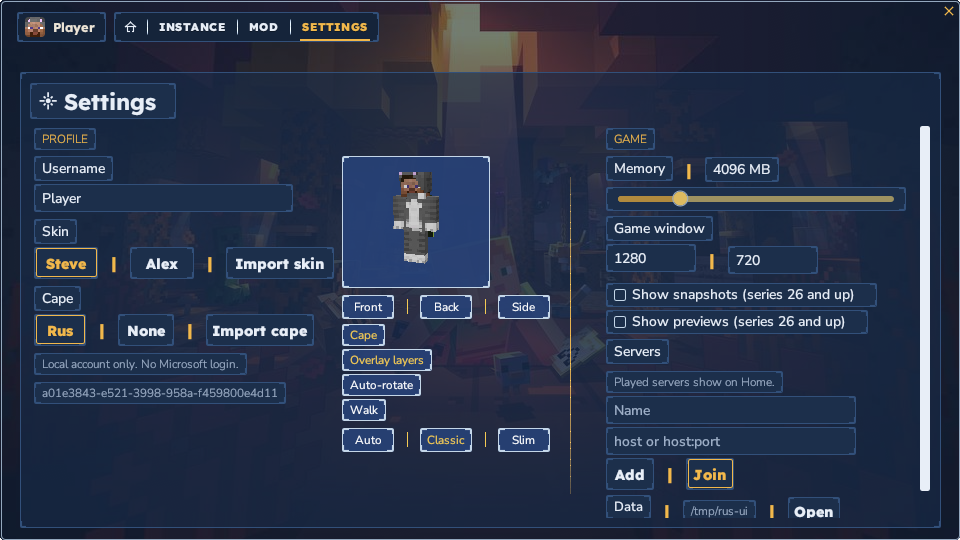
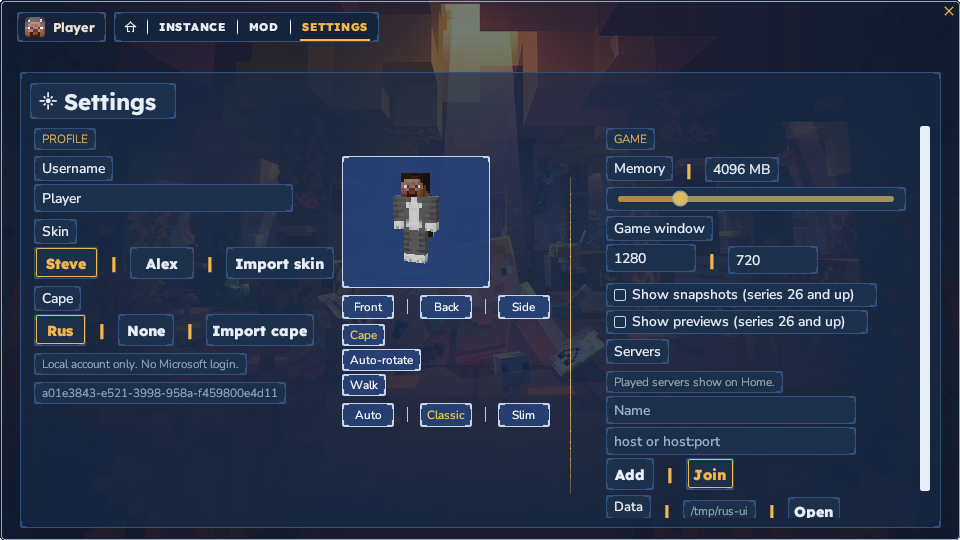
Release 1.26.3.01 without a PowerShell window or skin overlay.
The shortcut is written by wscript, and helper consoles stay hidden. Overlay layers are gone from the skin and from Settings. The gate window drops the leftover caption bar.

Changed region(s): [[0.3438, 0.6519, 0.5938, 0.8593], [0.4062, 0.2963, 0.4688, 0.3852]]

diff --git a/src/bin/rus-gate.rs b/src/bin/rus-gate.rs
@@ -200,6 +200,8 @@ impl eframe::App for Gate {
     fn update(&mut self, ctx: &egui::Context, _frame: &mut eframe::Frame) {
         self.frames += 1;
         self.pump(ctx);
+        #[cfg(windows)]
+        fit_windows_frame();
         if let Some(size) = ctx.input(|i| i.viewport().inner_rect.map(|r| r.size())) {
             if (size.x - WINDOW_W).abs() > 1.0 || (size.y - WINDOW_H).abs() > 1.0 {
                 ctx.send_viewport_cmd(ViewportCommand::InnerSize(egui::vec2(WINDOW_W, WINDOW_H)));
@@ -511,10 +513,10 @@ fn replace_and_relaunch(dir: &Path, staged: &Path) -> Result<(), String> {
             launcher.display(),
         );
         std::fs::write(&script, body).map_err(|e| e.to_string())?;
-        Command::new("cmd")
-            .args(["/C", &script.display().to_string()])
-            .spawn()
-            .map_err(|e| e.to_string())?;
+        let mut cmd = Command::new("cmd");
+        cmd.args(["/C", &script.display().to_string()]);
+        hide_console(&mut cmd);
+        cmd.spawn().map_err(|e| e.to_string())?;
         std::process::exit(0);
     }
     #[cfg(not(windows))]
@@ -871,16 +873,19 @@ fn desktop_shortcut(target: &Path, workdir: &Path) -> Result<(), String> {
             .map(|p| PathBuf::from(p).join("Desktop"))
             .unwrap_or_else(|_| PathBuf::from("."));
         let link = desktop.join("Rus Launcher.lnk");
+        let vbs = workdir.join("rus-shortcut.vbs");
         let script = format!(
-            "$w = New-Object -ComObject WScript.Shell; $s = $w.CreateShortcut('{}'); $s.TargetPath = '{}'; $s.WorkingDirectory = '{}'; $s.Description = 'Rus Launcher'; $s.Save()",
-            link.display().to_string().replace('\'', "''"),
-            target.display().to_string().replace('\'', "''"),
-            workdir.display().to_string().replace('\'', "''"),
+            "Set w = CreateObject(\"WScript.Shell\")\r\nSet s = w.CreateShortcut(\"{}\")\r\ns.TargetPath = \"{}\"\r\ns.WorkingDirectory = \"{}\"\r\ns.Description = \"Rus Launcher\"\r\ns.Save\r\n",
+            link.display().to_string().replace('"', "\"\""),
+            target.display().to_string().replace('"', "\"\""),
+            workdir.display().to_string().replace('"', "\"\""),
         );
-        let out = Command::new("powershell")
-            .args(["-NoProfile", "-Command", &script])
-            .output()
-            .map_err(|e| e.to_string())?;
+        std::fs::write(&vbs, script).map_err(|e| e.to_string())?;
+        let mut cmd = Command::new("wscript");
+        cmd.args(["//nologo", &vbs.display().to_string()]);
+        hide_console(&mut cmd);
+        let out = cmd.output().map_err(|e| e.to_string())?;
+        let _ = std::fs::remove_file(&vbs);
         if out.status.success() {
             Ok(())
         } else {
@@ -893,7 +898,10 @@ fn pick_folder() -> Option<PathBuf> {
     #[cfg(windows)]
     {
         let script = "Add-Type -AssemblyName System.Windows.Forms; $f = New-Object System.Windows.Forms.FolderBrowserDialog; $f.Description = 'Install Rus'; $f.ShowNewFolderButton = $true; if ($f.ShowDialog() -eq 'OK') { $f.SelectedPath }";
-        let out = Command::new("powershell").args(["-NoProfile", "-Command", script]).output().ok()?;
+        let mut cmd = Command::new("powershell");
+        cmd.args(["-NoProfile", "-Command", script]);
+        hide_console(&mut cmd);
+        let out = cmd.output().ok()?;
         let path = String::from_utf8_lossy(&out.stdout).trim().to_string();
         if path.is_empty() { None } else { Some(PathBuf::from(path)) }
     }
@@ -912,6 +920,85 @@ fn pick_folder() -> Option<PathBuf> {
         } else {
             None
         }
+    }
+}
+
+fn hide_console(cmd: &mut Command) {
+    #[cfg(windows)]
+    {
+        use std::os::windows::process::CommandExt;
+        cmd.creation_flags(0x08000000);
+    }
+    #[cfg(not(windows))]
+    {
+        let _ = cmd;
+    }
+}
+
+/// Drop the caption winit leaves on a borderless window, so the picture is not
+/// drawn under a black bar.
+#[cfg(windows)]
+fn fit_windows_frame() {
+    use std::os::raw::c_void;
+    const GWL_STYLE: i32 = -16;
+    const GWL_EXSTYLE: i32 = -20;
+    const WS_CAPTION: isize = 0x00C0_0000;
+    const WS_THICKFRAME: isize = 0x0004_0000;
+    const WS_BORDER: isize = 0x0080_0000;
+    const WS_EX_WINDOWEDGE: isize = 0x0000_0100;
+    const WS_EX_CLIENTEDGE: isize = 0x0000_0200;
+    const SWP_NOSIZE: u32 = 0x0001;
+    const SWP_NOMOVE: u32 = 0x0002;
+    const SWP_NOZORDER: u32 = 0x0004;
+    const SWP_NOACTIVATE: u32 = 0x0010;
+    const SWP_FRAMECHANGED: u32 = 0x0020;
+    #[repr(C)]
+    struct Margins {
+        cx_left: i32,
+        cx_right: i32,
+        cy_top: i32,
+        cy_bottom: i32,
+    }
+    #[link(name = "user32")]
+    extern "system" {
+        fn FindWindowW(class: *const u16, window: *const u16) -> *mut c_void;
+        fn GetWindowLongPtrW(hwnd: *mut c_void, index: i32) -> isize;
+        fn SetWindowLongPtrW(hwnd: *mut c_void, index: i32, value: isize) -> isize;
+        fn SetWindowPos(hwnd: *mut c_void, after: *mut c_void, x: i32, y: i32, cx: i32, cy: i32, flags: u32) -> i32;
+    }
+    #[link(name = "dwmapi")]
+    extern "system" {
+        fn DwmExtendFrameIntoClientArea(hwnd: *mut c_void, margins: *const Margins) -> i32;
+    }
+    let name: Vec<u16> = "Rus Gate\0".encode_utf16().collect();
+    let hwnd = unsafe { FindWindowW(std::ptr::null(), name.as_ptr()) };
+    if hwnd.is_null() {
+        return;
+    }
+    unsafe {
+        let style = GetWindowLongPtrW(hwnd, GWL_STYLE);
+        let next = style & !(WS_CAPTION | WS_THICKFRAME | WS_BORDER);
+        let ex = GetWindowLongPtrW(hwnd, GWL_EXSTYLE);
+        let next_ex = ex & !(WS_EX_WINDOWEDGE | WS_EX_CLIENTEDGE);
+        if next != style {
+            SetWindowLongPtrW(hwnd, GWL_STYLE, next);
+        }
+        if next_ex != ex {
+            SetWindowLongPtrW(hwnd, GWL_EXSTYLE, next_ex);
+        }
+        if next != style || next_ex != ex {
+            SetWindowPos(
+                hwnd,
+                std::ptr::null_mut(),
+                0,
+                0,
+                0,
+                0,
+                SWP_NOMOVE | SWP_NOSIZE | SWP_NOZORDER | SWP_NOACTIVATE | SWP_FRAMECHANGED,
+            );
+        }
+        let margins = Margins { cx_left: -1, cx_right: -1, cy_top: -1, cy_bottom: -1 };
+        let _ = DwmExtendFrameIntoClientArea(hwnd, &margins);
     }
 }
 

diff --git a/src/preview3d.rs b/src/preview3d.rs
@@ -11,7 +11,6 @@ pub struct SkinPreview {
     pub zoom: f32,
     pub auto_rotate: bool,
     pub show_cape: bool,
-    pub show_overlay: bool,
     pub walk: bool,
     pub arms: ArmModel,
     walk_phase: f32,
@@ -28,7 +27,6 @@ impl Default for SkinPreview {
             zoom: 1.0,
             auto_rotate: false,
             show_cape: true,
-            show_overlay: true,
             walk: false,
             arms: ArmModel::Auto,
             walk_phase: 0.0,
@@ -128,7 +126,7 @@ impl SkinPreview {
                         walk: if self.walk { self.walk_phase } else { 0.0 },
                         slim,
                         cape: self.show_cape,
-                        overlay: self.show_overlay,
+                        overlay: false,
                         width: (size.x * ppp) as u32,
                         height: (size.y * ppp) as u32,
                     },
@@ -158,7 +156,6 @@ impl SkinPreview {
             });
             ui.add_space(2.0);
             toggle(ui, &mut self.show_cape, "Cape", &mut self.dirty);
-            toggle(ui, &mut self.show_overlay, "Overlay layers", &mut self.dirty);
             toggle(ui, &mut self.auto_rotate, "Auto-rotate", &mut self.dirty);
             toggle(ui, &mut self.walk, "Walk", &mut self.dirty);
             ui.add_space(4.0);

diff --git a/src/dialog.rs b/src/dialog.rs
@@ -9,10 +9,10 @@ pub fn pick_file(title: &str, pattern: &str) -> Option<PathBuf> {
         let script = format!(
             "Add-Type -AssemblyName System.Windows.Forms; $f = New-Object System.Windows.Forms.OpenFileDialog; $f.Title = '{title}'; $f.Filter = '{pattern}|{pattern}'; if ($f.ShowDialog() -eq 'OK') {{ $f.FileName }}"
         );
-        let out = Command::new("powershell")
-            .args(["-NoProfile", "-Command", &script])
-            .output()
-            .ok()?;
+        let mut cmd = Command::new("powershell");
+        cmd.args(["-NoProfile", "-Command", &script]);
+        hide_console(&mut cmd);
+        let out = cmd.output().ok()?;
         let path = String::from_utf8_lossy(&out.stdout).trim().to_string();
         if path.is_empty() { None } else { Some(PathBuf::from(path)) }
     }
@@ -41,6 +41,18 @@ pub fn pick_file(title: &str, pattern: &str) -> Option<PathBuf> {
         } else {
             None
         }
+    }
+}
+
+fn hide_console(cmd: &mut Command) {
+    #[cfg(windows)]
+    {
+        use std::os::windows::process::CommandExt;
+        cmd.creation_flags(0x08000000);
+    }
+    #[cfg(not(windows))]
+    {
+        let _ = cmd;
     }
 }
 

diff --git a/src/product.rs b/src/product.rs
@@ -3,7 +3,7 @@
 //! The line starts at `1.26.3.00`. An update changes the last two digits
 //! until the year or month component is moved on purpose.
 
-pub const VERSION: &str = "1.26.3.00";
+pub const VERSION: &str = "1.26.3.01";
 
 pub fn parse(tag: &str) -> Option<[u32; 4]> {
     let tag = tag.trim().trim_start_matches('v');
@@ -28,7 +28,8 @@ mod tests {
 
     #[test]
     fn starting_version_parses() {
-        assert_eq!(parse(VERSION), Some([1, 26, 3, 0]));
+        assert_eq!(parse("1.26.3.00"), Some([1, 26, 3, 0]));
+        assert_eq!(parse(VERSION), Some([1, 26, 3, 1]));
         assert_eq!(parse("v1.26.3.00"), Some([1, 26, 3, 0]));
     }
 

diff --git a/README.md b/README.md
@@ -126,7 +126,7 @@ The release is Rus Gate. Download it once.
 
 | Platform | File |
 | --- | --- |
-| Windows | [rus-gate.exe](https://github.com/obsifox/rus/releases/download/1.26.3.00/rus-gate.exe) |
+| Windows | [rus-gate.exe](https://github.com/obsifox/rus/releases/download/1.26.3.01/rus-gate.exe) |
 
 <p align="center">
   <img src="docs/gate.png" alt="Rus Gate, a solid-color install window" width="640">
@@ -136,7 +136,7 @@ Run `rus-gate.exe`. The window is one solid color, with no title bar. It asks wh
 
 `Rus Launcher.exe` does not show the install step. With a connection it reads **tags**, not the release list, downloads `rus_{version}.exe` from that tag's release, and starts it. With no connection it starts the installed build.
 
-Versions are `{version}.{year}.{month}.{patch}`, starting at `1.26.3.00`. An update changes the last two digits.
+Versions are `{version}.{year}.{month}.{patch}`, starting at `1.26.3.00`. An update changes the last two digits. Current tag: `1.26.3.01`.
 
 Linux builds from source with `cargo build --release`. The published release is the Windows gate.
 
